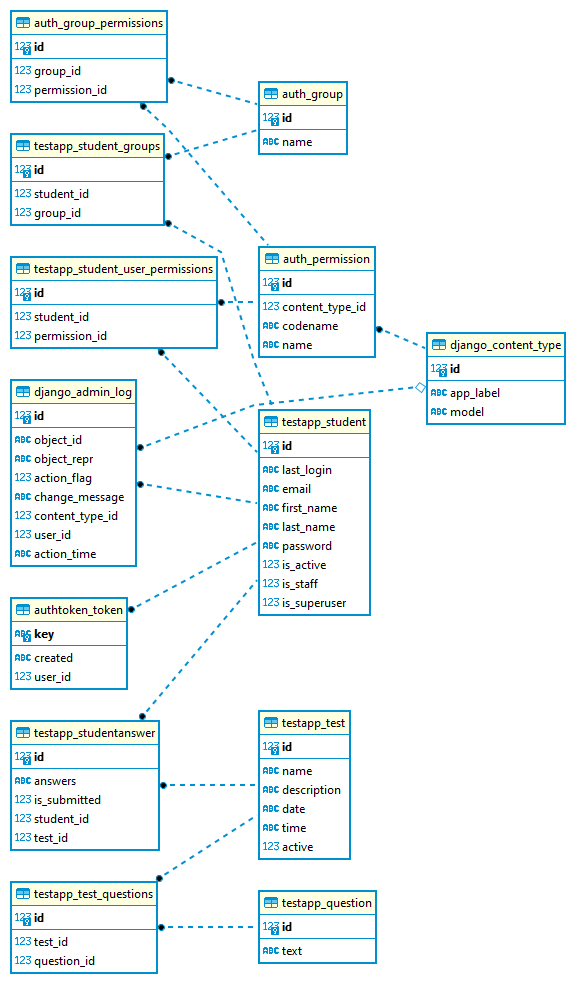
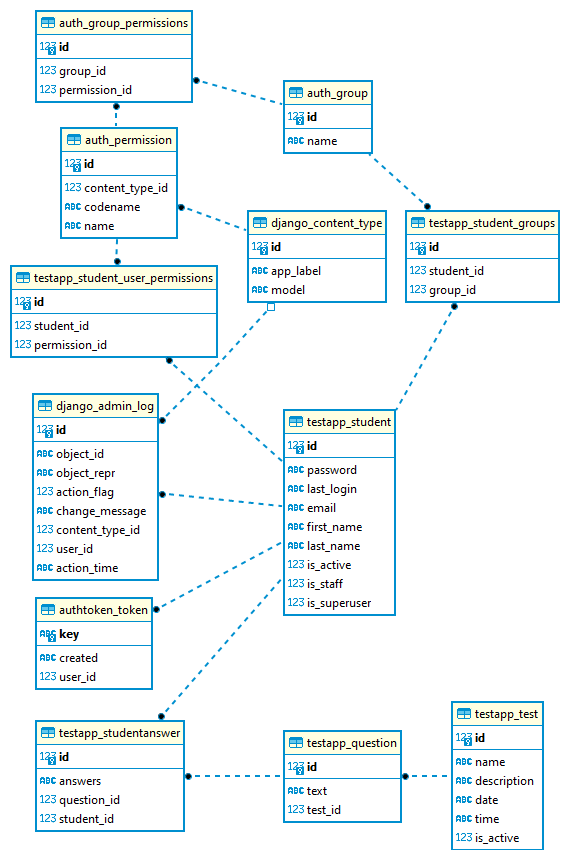
add docstrings, update DER

Changed region(s): [[0.0, 0.0, 0.9842, 1.0], [0.7754, 0.8259, 0.9544, 1.0], [0.3877, 0.6118, 0.4175, 0.6424]]

diff --git a/testapp/models.py b/testapp/models.py
@@ -9,7 +9,26 @@ from django.db import models
 
 
 class StudentManager(BaseUserManager):
+    """
+    A custom user manager for the Student model.
+
+    This manager provides methods for creating Student users, staff users, and superusers.
+    """
+
     def create_user(self, email, password=None):
+        """
+        Creates and saves a Student user with the given email and password.
+
+        Args:
+            email (str): The email address of the user.
+            password (str, optional): The password for the user. If not provided, a random password will be generated.
+
+        Returns:
+            Student: The newly created Student user.
+
+        Raises:
+            ValueError: If email is not provided.
+        """
         if not email:
             raise ValueError("email is required")
         user = self.model(
@@ -20,6 +39,19 @@ class StudentManager(BaseUserManager):
         return user
 
     def create_staffuser(self, email, password):
+        """
+        Creates and saves a staff user with the given email and password.
+
+        Args:
+            email (str): The email address of the user.
+            password (str): The password for the user.
+
+        Returns:
+            User: The newly created staff user.
+
+        Raises:
+            ValueError: If email is not provided.
+        """
         user = self.create_user(
             email=self.normalize_email(email),
             password=password,
@@ -33,6 +65,20 @@ class StudentManager(BaseUserManager):
         return user
 
     def create_superuser(self, email, password):
+        """
+        Creates and saves a superuser with the given email and password.
+
+        Args:
+            email (str): The email address of the user.
+            password (str): The password for the user.
+
+        Returns:
+            User: The newly created superuser.
+
+        Raises:
+            ValueError: If email is not provided.
+        """
+
         user = self.create_user(
             email=self.normalize_email(email),
             password=password,
@@ -45,6 +91,35 @@ class StudentManager(BaseUserManager):
 
 
 class Student(AbstractBaseUser, PermissionsMixin):
+    """
+    A custom user model for representing a Student.
+
+    This model extends the AbstractBaseUser and PermissionsMixin classes, and provides fields for email, first name, last name,
+    and group and permission associations. It also defines several methods for interacting with student objects.
+
+    Attributes:
+        email (str): The email address of the student. This field is unique.
+        first_name (str): The first name of the student.
+        last_name (str): The last name of the student.
+        is_active (bool): A boolean indicating whether the student is currently active.
+        is_staff (bool): A boolean indicating whether the student is a member of the staff.
+        is_superuser (bool): A boolean indicating whether the student is a superuser.
+        groups (ManyToManyField): A many-to-many relationship between students and groups.
+        user_permissions (ManyToManyField): A many-to-many relationship between students and permissions.
+        objects (StudentManager): The manager for creating and manipulating student objects.
+        USERNAME_FIELD (str): The name of the field that serves as the unique identifier for a student (in this case, 'email').
+
+    Methods:
+        full_name(): Returns the full name of the student, combining the first and last name.
+        short_name(): Returns a shortened name for the student, using the first name if available, or the email address otherwise.
+        has_perm(perm, obj=None): Determines whether the student has the specified permission (in this case, only staff members can view student answers).
+        has_module_perms(app_label): Determines whether the student has permissions to access all modules.
+
+    Meta:
+        verbose_name (str): The verbose name of a single student object.
+        verbose_name_plural (str): The verbose name of the collection of student objects.
+    """
+
     email = models.EmailField(unique=True)
     first_name = models.CharField(max_length=30, blank=True)
     last_name = models.CharField(max_length=30, blank=True)
@@ -86,6 +161,19 @@ class Student(AbstractBaseUser, PermissionsMixin):
 
 
 class Test(models.Model):
+    """A model representing a test.
+
+    Attributes:
+        name (str): The name of the test.
+        description (str): A description of the test.
+        date (date): The date the test will be administered.
+        time (time): The time the test was last updated.
+        is_active (bool): Whether the test is currently active.
+
+    Methods:
+        __str__: Returns a string representation of the test, including its name and date.
+    """
+
     name = models.CharField(max_length=100)
     description = models.TextField()
     date = models.DateField()
@@ -97,6 +185,16 @@ class Test(models.Model):
 
 
 class Question(models.Model):
+    """A model representing a question in a test.
+
+    Attributes:
+        test (Test): The test to which this question belongs.
+        text (str): The text of the question.
+
+    Methods:
+        __str__: Returns the text of the question as a string.
+    """
+
     test = models.ForeignKey(Test, on_delete=models.CASCADE, related_name="questions")
     text = models.TextField()
 
@@ -105,6 +203,17 @@ class Question(models.Model):
 
 
 class StudentAnswer(models.Model):
+    """A model representing a student's answer to a question.
+
+    Attributes:
+        student (Student): The student who provided the answer.
+        question (Question): The question to which the student provided an answer.
+        answers (str): The answer provided by the student.
+
+    Methods:
+        __str__: Returns a string representation of the student who provided the answer.
+    """
+
     student = models.ForeignKey(Student, on_delete=models.CASCADE)
     question = models.ForeignKey(
         Question, on_delete=models.CASCADE, related_name="answers"

diff --git a/testapp/serializers.py b/testapp/serializers.py
@@ -41,18 +41,22 @@ class StudentSerializer(serializers.ModelSerializer):
 
 
 class StudentAnswerSerializer(serializers.ModelSerializer):
+    test_id = serializers.IntegerField(write_only=True)
+
     class Meta:
         model = StudentAnswer
-        fields = ["id", "question", "answers"]
+        fields = ["id", "test_id", "question", "answers"]
 
     def create(self, validated_data):
         user = self.context["request"].user
-        print("#" * 50)
-        print(user)
-
         student = user if user.is_staff else None
-
-        return StudentAnswer.objects.create(student=student, **validated_data)
+        test_id = validated_data.pop("test_id", None)
+        answer = StudentAnswer.objects.create(student=student, **validated_data)
+        if test_id is not None:
+            test = Test.objects.get(id=test_id)
+            answer.test = test
+            answer.save()
+        return answer
 
 
 class QuestionSerializer(serializers.ModelSerializer):

diff --git a/testapp/urls.py b/testapp/urls.py
@@ -1,10 +1,8 @@
 from django.urls import include, path
 from rest_framework import routers
 from .views import (
-    ActiveTestList,
     AnswerStudentViewSet,
     StudentSignupView,
-    TestTakingView,
 )
 
 router = routers.DefaultRouter()
@@ -16,16 +14,6 @@ urlpatterns = [
         "student/answers/",
         AnswerStudentViewSet.as_view(),
         name="Student Answers",
-    ),
-    path("tests/<int:test_id>/take/", TestTakingView.as_view(), name="Take Test"),
-    path(
-        "tests/",
-        ActiveTestList.as_view(
-            {
-                "get": "list",
-            }
-        ),
-        name="test-list",
     ),
     path("", include(router.urls)),
 ]
